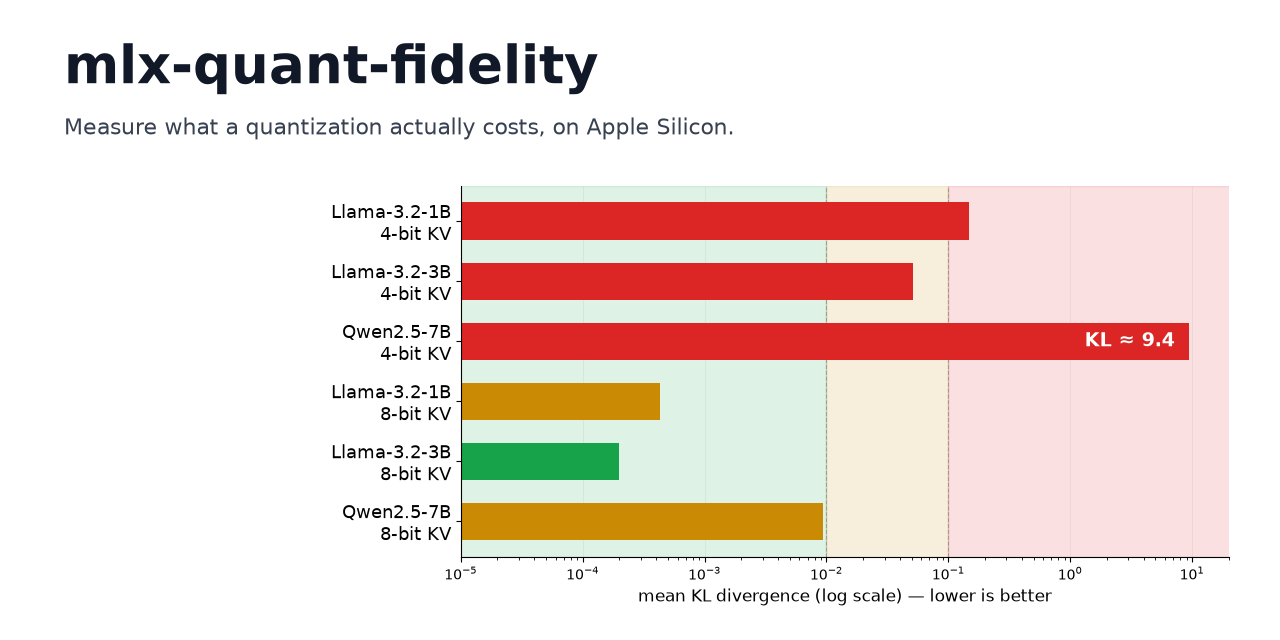
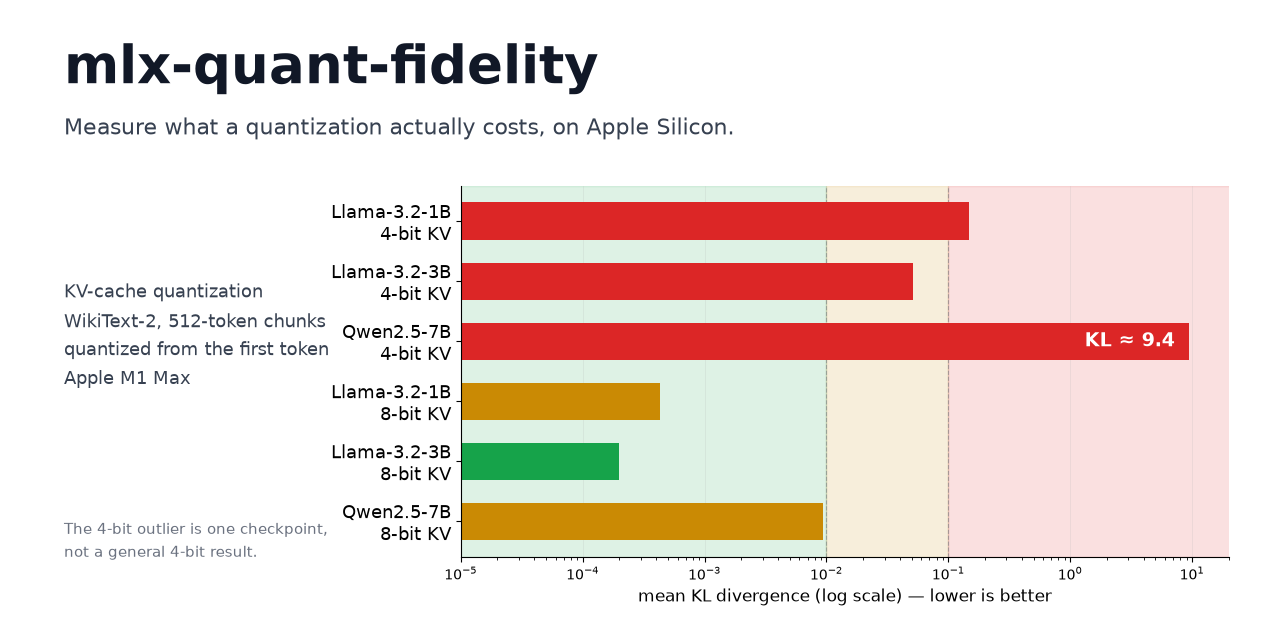
Drop the unmeasured fluency claim and bound the quickstart
The opening rested the "a failure does not announce itself" point on the
text staying fluent English. This library never generates text, and the
committed Qwen 4-bit KV sample reports a quantized perplexity of 82,675
against a reference of 10.79 -- that distribution is destroyed. The point
holds for the checkpoint you install, so it now rests there instead.

The quickstart showed a 100-chunk report under a command that scores the
whole split. Add --max-chunks 100 so the command produces the numbers
shown, restore the two metric rows and the provenance line the block had
dropped, and mark the remaining omission.

- Narrow the badge claim: the message carries no model id and no group
  size, so only configurations of the same model are distinguishable.
- Give the social card the qualifiers the chart already carries: corpus,
  chunk length, stress mode, hardware, and that the outlier is one
  checkpoint.
- Add a common-options list and the download and memory costs.
- Correct the domination definition in the README, the ranking document
  and the diagram: a tie on one axis with a loss on the other is also
  dominated.
- The depth table ships in every stress report; --chunk-length only
  widens its buckets.
- Report a measurement rather than recommend a deployment: "clears the
  good tier" instead of "safe to ship".
- Select chart samples on chunk length and mode instead of filename, so
  an off-recipe report cannot reach a chart captioned otherwise.
[…]

Changed region(s): [[0.0312, 0.4375, 0.25, 0.625], [0.0625, 0.8125, 0.25, 0.875]]

diff --git a/tests/test_plot_fidelity_cliff.py b/tests/test_plot_fidelity_cliff.py
@@ -56,6 +56,8 @@ def test_collect_kv_points_reads_committed_samples(tmp_path):
         "kl": {"mean": 0.148, "median": 0.1, "p99": 0.9, "max": 5.0},
         "flip_rate": 0.2,
         "verdict": "bad",
+        "corpus": {"chunk_length": 512},
+        "quantize_mode": "stress",
     }
     (tmp_path / "llama-3.2-1b-4bit-kv4.json").write_text(json.dumps(sample))
 
@@ -68,13 +70,28 @@ def test_collect_kv_points_reads_committed_samples(tmp_path):
     assert "Llama-3.2-1B" in points[0].label
 
 
-def test_collect_kv_points_ignores_long_window_variants(tmp_path):
-    # The cl4096 samples measure a different chunk length; mixing them into a
-    # chart captioned "512-token chunks" would misattribute the numbers.
+def test_collect_kv_points_ignores_off_recipe_samples(tmp_path):
+    # The chart is captioned "512-token chunks, quantized from the first token",
+    # so a sample at another chunk length or in deployment mode would be
+    # misattributed. The filenames here deliberately carry NO "-cl4096" marker:
+    # only a filter reading corpus.chunk_length and quantize_mode can reject
+    # them, so a filename-matching implementation fails this test.
     module = _load_module()
-    base = {"model_id": "m", "kv_bits": 4, "kl": {"mean": 0.1}, "flip_rate": 0.2, "verdict": "bad"}
-    (tmp_path / "llama-3.2-1b-4bit-kv4.json").write_text(json.dumps(base))
-    (tmp_path / "llama-3.2-1b-4bit-kv4-cl4096.json").write_text(json.dumps(base))
+
+    def sample(chunk_length, mode):
+        return {
+            "model_id": "m",
+            "kv_bits": 4,
+            "kl": {"mean": 0.1},
+            "flip_rate": 0.2,
+            "verdict": "bad",
+            "corpus": {"chunk_length": chunk_length},
+            "quantize_mode": mode,
+        }
+
+    (tmp_path / "keep.json").write_text(json.dumps(sample(512, "stress")))
+    (tmp_path / "wide.json").write_text(json.dumps(sample(2048, "stress")))
+    (tmp_path / "deploy.json").write_text(json.dumps(sample(512, "deployment")))
 
     points = module.collect_kv_points(tmp_path)
 
@@ -94,6 +111,8 @@ def test_collect_kv_points_sorts_by_bits_then_label(tmp_path):
             "kl": {"mean": 0.01},
             "flip_rate": 0.0,
             "verdict": "good",
+            "corpus": {"chunk_length": 512},
+            "quantize_mode": "stress",
         }
         (tmp_path / f"{name}-kv{bits}.json").write_text(json.dumps(payload))
 

diff --git a/scripts/plot_fidelity_cliff.py b/scripts/plot_fidelity_cliff.py
@@ -48,8 +48,10 @@ def _short_model_name(model_id: str) -> str:
 def collect_kv_points(samples_dir: Path) -> list[CliffPoint]:
     """Collect KV-cache measurements from committed sample reports.
 
-    Long-window ``-cl4096`` variants are excluded: they measure a different chunk
-    length, and mixing them into one chart would misattribute the numbers.
+    Only default-window stress runs are charted. A sample measured at another
+    chunk length, or in deployment mode, is excluded: the chart is captioned
+    "512-token chunks, quantized from the first token", so mixing one in would
+    misattribute the numbers.
 
     Args:
         samples_dir: Directory of committed ``kv`` sample JSON reports.
@@ -59,10 +61,10 @@ def collect_kv_points(samples_dir: Path) -> list[CliffPoint]:
     """
     points: list[CliffPoint] = []
     for path in sorted(samples_dir.glob("*.json")):
-        if path.stem.endswith("-cl4096"):
-            continue
         data: dict[str, Any] = json.loads(path.read_text())
         if "kv_bits" not in data:
+            continue
+        if data["corpus"]["chunk_length"] != 512 or data["quantize_mode"] != "stress":
             continue
         points.append(
             CliffPoint(
@@ -240,6 +242,22 @@ def render_og_card(kv: list[CliffPoint], out_path: Path) -> None:
         "Measure what a quantization actually costs, on Apple Silicon.",
         fontsize=16,
         color="#374151",
+    )
+    fig.text(
+        0.05,
+        0.40,
+        "KV-cache quantization\nWikiText-2, 512-token chunks\nquantized from the first token\nApple M1 Max",
+        fontsize=13,
+        color="#374151",
+        linespacing=1.6,
+    )
+    fig.text(
+        0.05,
+        0.13,
+        "The 4-bit outlier is one checkpoint,\nnot a general 4-bit result.",
+        fontsize=11,
+        color="#6B7280",
+        linespacing=1.5,
     )
     out_path.parent.mkdir(parents=True, exist_ok=True)
     fig.savefig(out_path, format="png", facecolor="#FFFFFF")

diff --git a/README.md b/README.md
@@ -10,7 +10,7 @@
 
 You install a 4-bit model. It loads, it answers, the prose reads fine. Nothing in the logs suggests otherwise.
 
-On Qwen2.5-7B with a 4-bit KV cache active from the first token, 99% of next-token choices come out different from the same model running a full-precision cache. Quantizing from token zero is the harshest way to measure, and it is not what you get by default: mlx-lm's own generate command leaves the cache unquantized until token 5000. The text is still fluent English — that is exactly the problem. A quantization failure does not announce itself, and file size tells you nothing about it.
+On Qwen2.5-7B with a 4-bit KV cache active from the first token, 99% of next-token choices come out different from the same model running a full-precision cache. Quantizing from token zero is the harshest way to measure, and it is not what you get by default: mlx-lm's own generate command leaves the cache unquantized until token 5000. Nothing about installing that model, or setting that flag, surfaces a number like 99%. A quantization failure does not announce itself, and file size tells you nothing about it.
 
 `mlx-quant-fidelity` runs the same text through your model twice, once quantized and once not, and reports how far apart the two ended up: KL divergence, top-token flip rate, perplexity delta. It covers both **KV-cache quantization** and **weight quantization**.
 
@@ -20,7 +20,7 @@ The CUDA and GGUF world has had this for years — llama.cpp's `--kl-divergence-
 
 ```bash
 pip install mlx-quant-fidelity
-mlx-quant-fidelity kv mlx-community/Llama-3.2-3B-Instruct-4bit --kv-bits 8
+mlx-quant-fidelity kv mlx-community/Llama-3.2-3B-Instruct-4bit --kv-bits 8 --max-chunks 100
 ```
 
 ```
@@ -31,12 +31,28 @@ mlx-quant-fidelity kv mlx-community/Llama-3.2-3B-Instruct-4bit --kv-bits 8
 | metric | value |
 |---|---|
 | KL mean | 0.0002 nats |
+| KL median | 0.0001 nats |
 | KL p99 | 0.0015 nats |
+| KL max | 0.1129 nats |
 | flip rate | 0.0065 |
 | perplexity Δ | +0.0054 (17.722 → 17.728) |
+
+Measured on **wikitext-2-raw/test**, 51100 positions across 100 chunks of length 512 (tokenizer `mlx-community/Llama-3.2-3B-Instruct-4bit`).
+
+...
 ```
 
-That model at 8-bit KV is safe to ship on this corpus. Apple Silicon, Python 3.11+.
+That model at 8-bit KV clears the good tier on this corpus. Apple Silicon, Python 3.11+.
+
+### Common options
+
+- `--kv-bits` / `--kv-group-size` — the KV configuration to score, default `4` / `64`. The `4:32,4:64` shorthand in `compare kv --configs` is `bits:group_size`.
+- `--max-chunks N` — score only the first N corpus chunks. Every number in this README uses `--max-chunks 100`; leave it off and the run covers the whole WikiText-2 test split.
+- `--chunk-length N` — the scoring window, default 512, hard ceiling 4096.
+- `--quantize-start N` — `0` for stress mode, the default; any N above 0 for deployment mode.
+- `--format json|md|badge` — `md` by default. `json` is the machine-readable form the reports under [`_artifacts/samples/`](_artifacts/samples) are written in, and `badge` works on `weights` as well as `kv`. The two `compare` subcommands take `json` and `md` only.
+
+Both cost something to run. The quickstart pulls roughly 1.8 GB of weights plus the corpus on first use, and a wider window costs memory rather than time: the 4096-token run further down peaks at 13.53 GiB, so it will not fit a 16 GB machine. [docs/measurement-principles.md](docs/measurement-principles.md#drift-by-position-depth) lists the measured peak for every window length and explains the pre-flight that refuses one too large for your device.
 
 ## Does this apply to you?
 
@@ -65,7 +81,7 @@ Builds the whole bits-by-group-size grid from the model's `config.json`, drops a
 mlx-quant-fidelity kv <model> --kv-bits 8 --format badge
 ```
 
-Prints one shields.io line for your model card. Green, yellow, or red, with the bit width, corpus, chunk length, and mode baked into the message, so two badges are never confused.
+Prints one shields.io line for your model card. Green, yellow, or red, with the bit width, corpus, chunk length, and mode baked into the message, so two badges from the same model at different configurations are distinguishable at a glance.
 
 ## Badge output
 
@@ -100,7 +116,7 @@ KV cache, M1 Max, WikiText-2 test (100 chunks of 512 tokens), stress mode (quant
 
 ## Does drift change with position depth?
 
-`--chunk-length 4096` widens the window and adds a table breaking mean and p99 KLD down by position depth within a chunk.
+Every stress-mode report already breaks mean and p99 KLD down by position depth within a chunk. `--chunk-length 4096` widens the window so those buckets span more positions.
 
 ```bash
 mlx-quant-fidelity kv mlx-community/Llama-3.2-1B-Instruct-4bit \
@@ -140,9 +156,9 @@ Unlike the KV probe, both runs use standard attention, so the drift is the deplo
 
 ## Comparing quantizations
 
-`compare` ranks a set of quantizations on a memory-normalized Pareto frontier: quality (mean KL divergence) on one axis, memory cost on the other. It identifies any configuration that is both worse quality and more expensive than another option on the list — those are dominated and you would never choose them.
+`compare` ranks a set of quantizations on a memory-normalized Pareto frontier: quality (mean KL divergence) on one axis, memory cost on the other. It identifies any configuration that another option on the list matches or beats on both axes and beats on at least one — those are dominated and you would never choose them.
 
-![Diagram explaining domination: configuration A drifts less, with a lower mean KL divergence, and costs less, with fewer cache bytes per token. Configuration B loses on both counts, so B is dominated — worse on quality and more expensive, meaning no memory budget would make it the right pick. Ranking reports domination so options can be discarded outright instead of weighed by hand](https://raw.githubusercontent.com/IonDen/mlx-quant-fidelity/main/docs/assets/diagrams/pareto-domination.svg)
+![Diagram explaining domination: configuration A is no worse than B on quality, its mean KL divergence being no higher, and no worse on cost, its cache bytes per token being no higher. B wins on neither axis while A beats it on at least one, so B is dominated and no memory budget would make it the right pick. Ranking reports domination so options can be discarded outright instead of weighed by hand](https://raw.githubusercontent.com/IonDen/mlx-quant-fidelity/main/docs/assets/diagrams/pareto-domination.svg)
 
 ```bash
 # rank weight quantizations against a bf16 reference

diff --git a/docs/ranking-principles.md b/docs/ranking-principles.md
@@ -10,7 +10,7 @@ When you have several quantizations of the same model — q4, q6, and q8 weights
 
 Raw metric sorting does not answer that. Sorting by KL divergence alone picks the best quality regardless of cost, which tells you nothing you didn't already know (more bits = lower KLD). Sorting by size alone ignores quality. Neither tells you whether q6 is a meaningful step up from q4 or barely different.
 
-The useful question: are there any quantizations on the list that are both worse quality and more expensive than another option on the same list? Those are strictly dominated — you would never choose them. The remaining candidates form the Pareto frontier, where every point gives up something compared to its neighbors.
+The useful question: are there any quantizations on the list that another option matches or beats on both quality and cost, and beats on at least one? Those are strictly dominated — you would never choose them. The remaining candidates form the Pareto frontier, where every point gives up something compared to its neighbors.
 
 ## The quality axis
 
@@ -40,7 +40,7 @@ Memory normalization is what makes the comparison meaningful. Without it, compar
 
 Target A dominates target B when A is no worse than B on both axes and strictly better on at least one. The Pareto frontier is the set of non-dominated targets. Dominated targets appear in the comparison report flagged with a dominator's label.
 
-![Diagram explaining domination: configuration A drifts less, with a lower mean KL divergence, and costs less, with fewer cache bytes per token. Configuration B loses on both counts, so B is dominated — worse on quality and more expensive, meaning no memory budget would make it the right pick. Ranking reports domination so options can be discarded outright instead of weighed by hand](https://raw.githubusercontent.com/IonDen/mlx-quant-fidelity/main/docs/assets/diagrams/pareto-domination.svg)
+![Diagram explaining domination: configuration A is no worse than B on quality, its mean KL divergence being no higher, and no worse on cost, its cache bytes per token being no higher. B wins on neither axis while A beats it on at least one, so B is dominated and no memory budget would make it the right pick. Ranking reports domination so options can be discarded outright instead of weighed by hand](https://raw.githubusercontent.com/IonDen/mlx-quant-fidelity/main/docs/assets/diagrams/pareto-domination.svg)
 
 A worked example: suppose you compare four weight quantizations.
 
@@ -51,7 +51,7 @@ A worked example: suppose you compare four weight quantizations.
 | q4 | 0.09 | 4.2 GB |
 | q4-bad | 0.20 | 4.3 GB |
 
-q4-bad has worse quality than q4 (KLD 0.20 vs 0.09) and costs more bytes (4.3 vs 4.2 GB). q4 dominates q4-bad: you would never choose q4-bad. The frontier is {q4, q6, q8}. Each is the cheapest way to achieve at least that quality level; none dominates another.
+q4-bad has worse quality than q4 (KLD 0.20 vs 0.09) and costs more bytes (4.3 vs 4.2 GB), so q4 dominates it on both axes at once — you would never choose q4-bad. A tie on one axis is enough: had q4-bad matched q4's KLD exactly and still cost more, it would be dominated just the same. The frontier is {q4, q6, q8}. Each is the cheapest way to achieve at least that quality level; none dominates another.
 
 The tool does not pick a single "knee" from the frontier automatically. Where the knee sits depends on how you weight quality against cost, and choosing that weighting is a value judgment the tool deliberately leaves to you.
 

diff --git a/CHANGELOG.md b/CHANGELOG.md
@@ -3,15 +3,18 @@
 The format follows [Keep a Changelog](https://keepachangelog.com/en/1.1.0/), and
 this project adheres to [Semantic Versioning](https://semver.org/spec/v2.0.0.html).
 
-## [0.5.1] - 2026-08-17
+## [0.5.1] - 2026-08-18
 
 Documentation release: a rewritten README, diagrams for the measurement model, and a fidelity chart rendered from the committed sample reports.
+
+### Added
+
+- Diagrams for where precision is lost, how stress and deployment measurement differ, and what it means for one configuration to dominate another.
+- A fidelity chart rendered from the committed sample reports by `scripts/plot_fidelity_cliff.py`, so every plotted number is reproducible from committed data.
 
 ### Changed
 
 - Rewrote the README around the three questions the tool answers: what a quantization you are about to run costs, which configuration fits a memory budget, and what to publish alongside a quantized model.
-- Added diagrams for where precision is lost, how stress and deployment measurement differ, and what it means for one configuration to dominate another.
-- Added a fidelity chart rendered from the committed sample reports by `scripts/plot_fidelity_cliff.py`, so every plotted number is reproducible from committed data.
 - Refreshed package metadata and promoted the development status to Beta.
 
 No change to measurement behavior. Reports produced by 0.5.1 are identical to 0.5.0.
